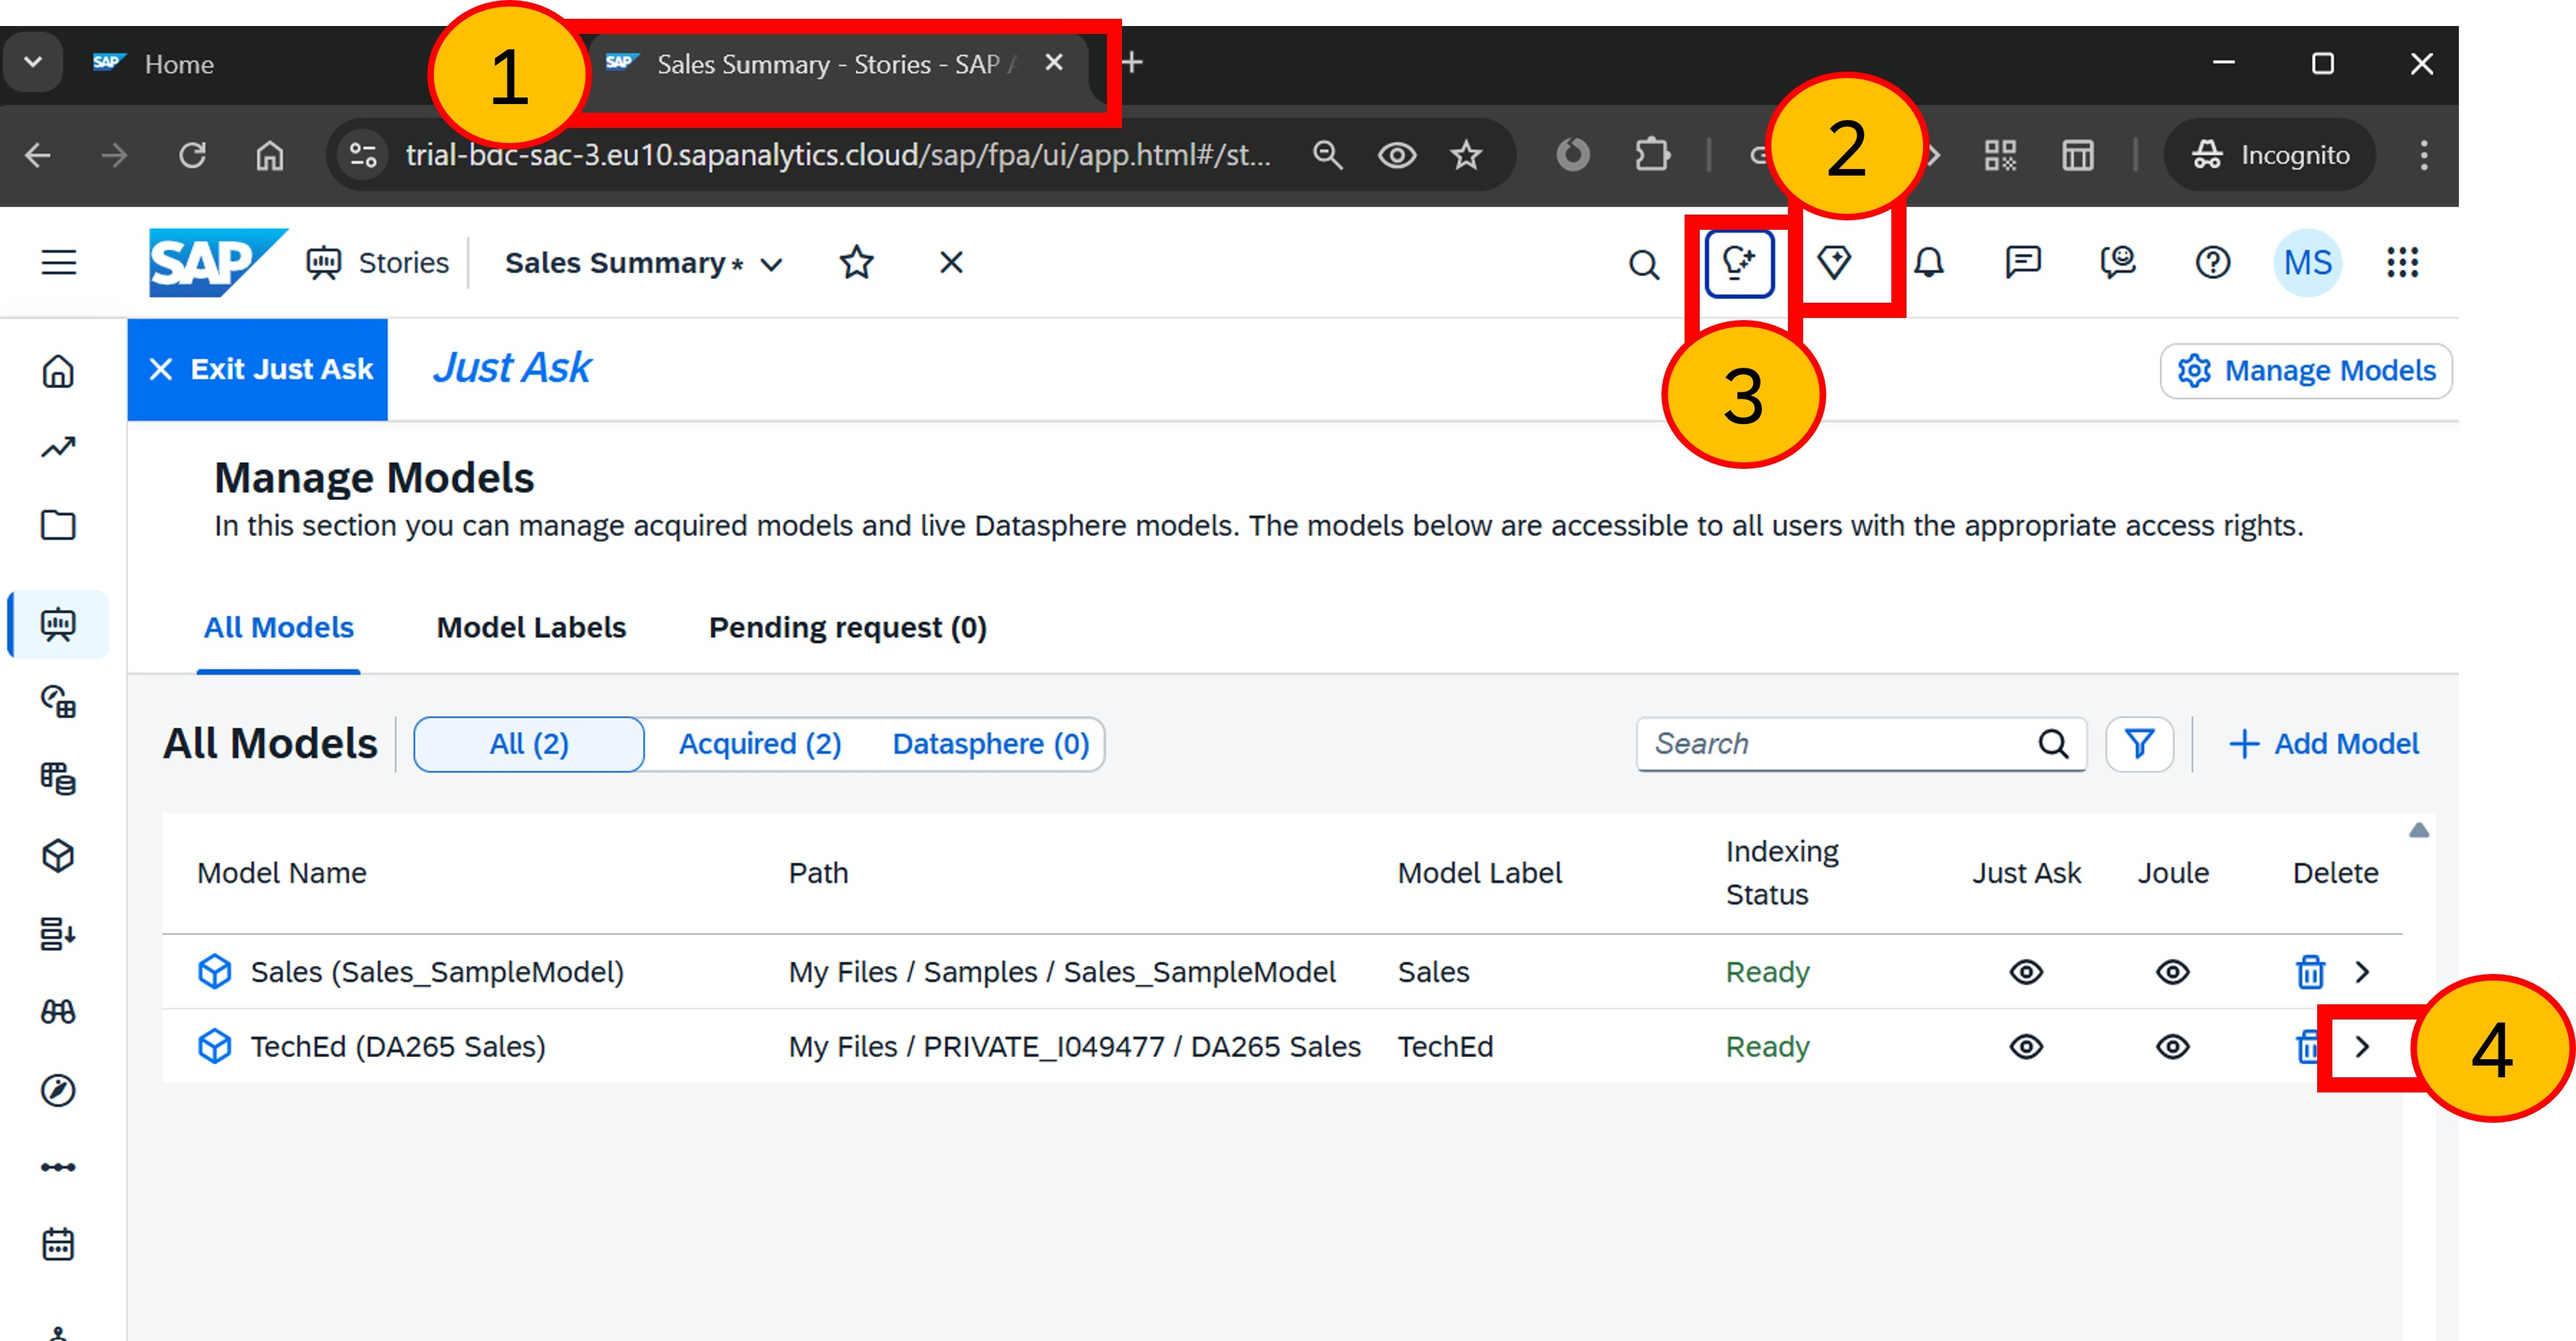
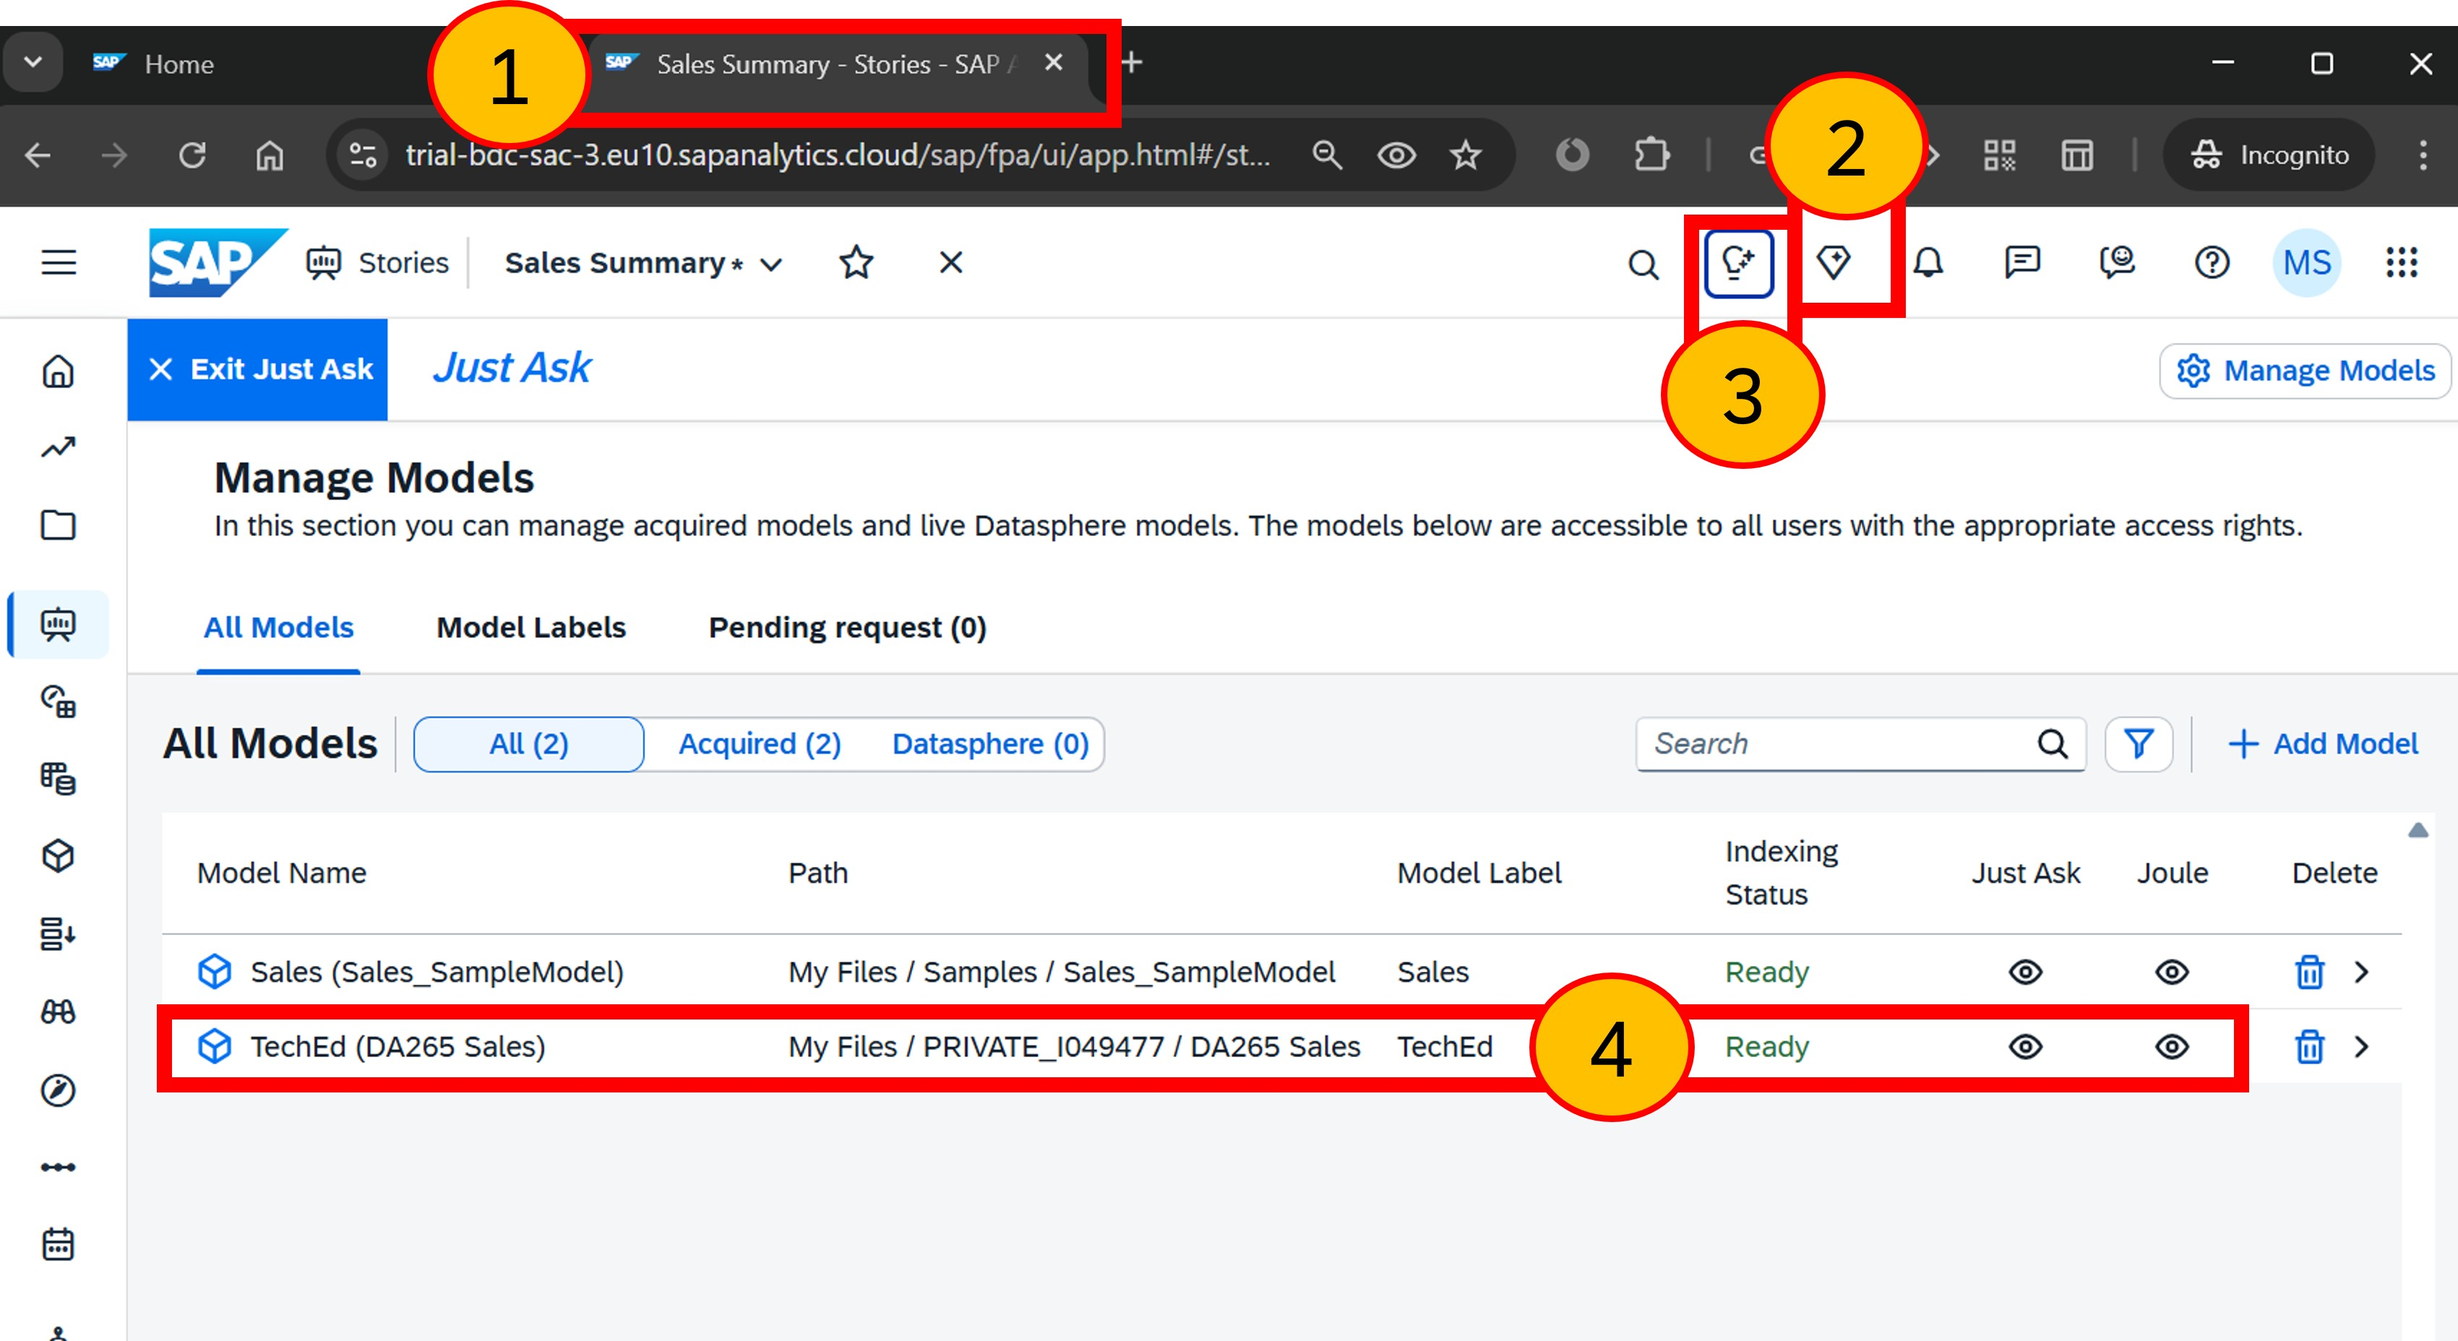
commit

diff --git a/exercises/ex7/README.md b/exercises/ex7/README.md
@@ -26,8 +26,10 @@ coming soon.
 
 1. Enter `show me grocery store sales for teched`
 2. Press enter or click the **send** icon
+3. Click **'Expand'** so we have more space to work.
 
-> We used the term '***for teched***' to refer to enchanced model. ***TechEd*** is the alias name for the model.
+> We used the term '***for teched***' to refer to our enchanced, copied, model. ***TechEd*** is the alias name for the model 'DA265'.
+> The benefit of adding an alias and label to the model can be seen here. 
 
 ![Image](img/9154.jpg)
   
@@ -37,10 +39,18 @@ coming soon.
 <BR>
 <BR>
 
-### Step 3: Old values shown by Just Ask
+### Step 3: Validate synonyms, rules, and default time for the new model; pose a question to multiple models
 
-1. Enter `show me sales` 
-2. Press enter or click **send**
+1. There are several key points to note here. Each has improved the user experience:
+
+	+ The model’s name has been confirmed back to you '**TechEd**'.
+	+ The synonym for '*grocery*' has worked as a filter and has been applied to both grocery stores. The user didn't need to specify each store name individually. 
+	+ The default time period has been applied, which means the sales correspond to the current year values, rather than all time.
+
+2. Enter `show me units by brand` 
+3. Press enter or click **send**
+
+> Asking for 'units by brand' is a question that can be satisfied by both models, so we should expect a prompt.
 
 ![Image](img/9155.jpg)
   
@@ -50,14 +60,14 @@ coming soon.
 <BR>
 <BR>
 
-### Step 4: Select DA265 at the prompt
+### Step 4: Resolve prompt 'TechEd'
 
-As two models can answer this question on ‘show me sales’, Joule needs to prompt which one should be used for the analytical insight.
+As two models can answer this question on ‘show me units by brand’, Joule needs to prompt which one should be used for the analytical insight.
 
-Two models are displayed: the original sample model and your now-enhanced copy, called **‘DA265 Sales’**. This model also has an alias of **‘TechEd’** and a label also called **‘TechEd’**
+Two models are displayed: the original sample model and your now-enhanced copy, shown here as **‘TechEd’**. This model also has an alias of **‘TechEd’** and a label with the same name, **‘TechEd’**. With Joule Analytical Insights' (Joule within SAP Analytics Cloud), the same model appears as **‘DA265 Sales’**. As mentioned, this behaviour may change once it's out of beta.
 
   
-1. Select **DA265 Sales**
+1. Select **TechEd**
 
 
 ![Image](img/9156.jpg)
@@ -68,12 +78,11 @@ Two models are displayed: the original sample model and your now-enhanced copy, 
 <BR>
 <BR>
 
-### Step 5: Question avoiding the model prompt
+### Step 5: Validate date rule has been applied
 
 We can avoid the prompt by telling Joule which model to use by adding `for DA265` to the question.
 
-1. Enter `show me sales for da265` 
-2. Press enter or click **send**
+1. Note that we requested Units. You might recall we added a rule for Units, so 'date' is always included. This results in a very busy and somewhat difficult-to-understand chart. It also indicates that considerations, such as rules, should be verified by the business user for both Just Ask and separately Joule. In some cases, you may need to limit options with Joule to prevent complex visualisations.
   
 
 
@@ -85,14 +94,13 @@ We can avoid the prompt by telling Joule which model to use by adding `for DA265
 <BR>
 <BR>
 
-### Step 6: Copy-paste, ask another question
+### Step 6: Open Model to limit access to Just Ask
   
-With Joule Analytical Insights we can easily copy and paste any visualisation into a Story.
-  
-1. Click **Copy**
-2. Select **Paste** which will paste the visualisation from Joule Analytical Insights into our story.
-3. Enter `show me sales by store for da265` 
-4. Press enter or click **send**
+In some instances, you might find that a model is simply too complex to be accessible through Joule. In such cases, we can disable a model for Joule access while still allowing Just Ask access. 
+1. Click **SAP Analytics Cloud** browser tab
+2. Close Joule for Analytical Insights by clicking the **Joule** icon.
+3. Open Just Ask, by clicking the **Just Ask** icon
+4. Open the model **TechEd (DA265 Sales)**
 
 ![Image](img/9158.jpg)
 
@@ -102,11 +110,10 @@ With Joule Analytical Insights we can easily copy and paste any visualisation in
 <BR>
 
 
-### Step 7: Explore Joule Analytical Insights
+### Step 7: Disabled 'TechEd' for Joule
   
-Joule Analytical Insights also enables us to explore the visualisation and enhance it as we see fit.  Whilst we could just ask for a pie-chart, we shall explore to see the benefits.
 
-1. Click **Explore**
+1. Change the visibility to **Enabled for Just Ask only**
 
 ![Image](img/9159.jpg)
 
@@ -115,9 +122,14 @@ Joule Analytical Insights also enables us to explore the visualisation and enhan
 <BR>
 <BR>
 
-### Step 8: Exit manage models
+### Step 8: Test TechEd is no longer visibile to Joule
   
-1. Close the Manage Models page by clicking **Edit Chart**
+1. Click back to the browser **Workzone tab** (not shown in screenshot)
+2. Select **+ New Conversation**
+3. Enter `show me units by brand` 
+4. Press enter or click **send**
+
+> This is the same prompt we used earlier resulted in Joule prompting for a model 
 
 
 ![Image](img/9160.jpg)
@@ -127,12 +139,9 @@ Joule Analytical Insights also enables us to explore the visualisation and enhan
 <BR>
 <BR>
 
-### Step 9: Re-test
+### Step 9: Check no prompt
   
-1. Click on the **+** icon and select **Corporation**
-2. Note that the list of values now includes the newly updated value, 'Global Essence Inc.'
-
-> Screenshot taken between steps 2 and 3
+1. Note the model **TechEd** is no longer available and so the result shown is from the 'Sales' model as described.
 
 ![Image](img/9161.jpg)
 
@@ -142,67 +151,9 @@ Joule Analytical Insights also enables us to explore the visualisation and enhan
 <BR>
 
 
-
-
-### Step 10: Open TechEd model
-  
-1. Select **Manage Models**
-2. Select the **TechEd (DA265 Sales)** model
-
-![Image](img/9162.jpg)
-
-<BR>
-<BR>
-<BR>
-<BR>
-
-### Step 11: Disable members for Corporation
-  
-1. Click the **Edit show in search preferences** icon
-2. For the **'Corporation'** dimension de-select the **include** under 'Members'
-3. Click **Save**
-
-> The 'Show in search' option is very useful.
-> + When you remove a dimension from the search, it no longer appears in Just Ask. This helps simplify what users see and avoids confusion between similar measures, dimensions, or their values. 
-> + We will not disable this 'Show in search' option in this workshop but for real-life models you are likely to need it.
-
-![Image](img/9163.jpg)
-
-<BR>
-<BR>
-<BR>
-<BR>
-
-### Step 12: Confirm save
-  
-1. Click **Save**
-
-![Image](img/8140.jpg)
-
-<BR>
-<BR>
-<BR>
-<BR>
-
-
-### Step 13: Test
-  
-1. Close the Manage Models page by clicking **Manage Models**
-2. Click on the **+** icon and select **Corporation**
-3. Note that no longer are there any values displayed for Corporation. Users can still filter values; they just need to type the value instead of selecting it from a list. Removing the list in Just Ask simply prevents these values from appearing in the interface.
-4. Click **Exit Just Ask**
-
-
-![Image](img/8141.jpg)
-
-<BR>
-<BR>
-<BR>
-<BR>
-
 ## Summary
 
 
-
+Coming soon
 
 Continue to - [Exercise 3 - Excercise 3 ](../ex3/README.md)
